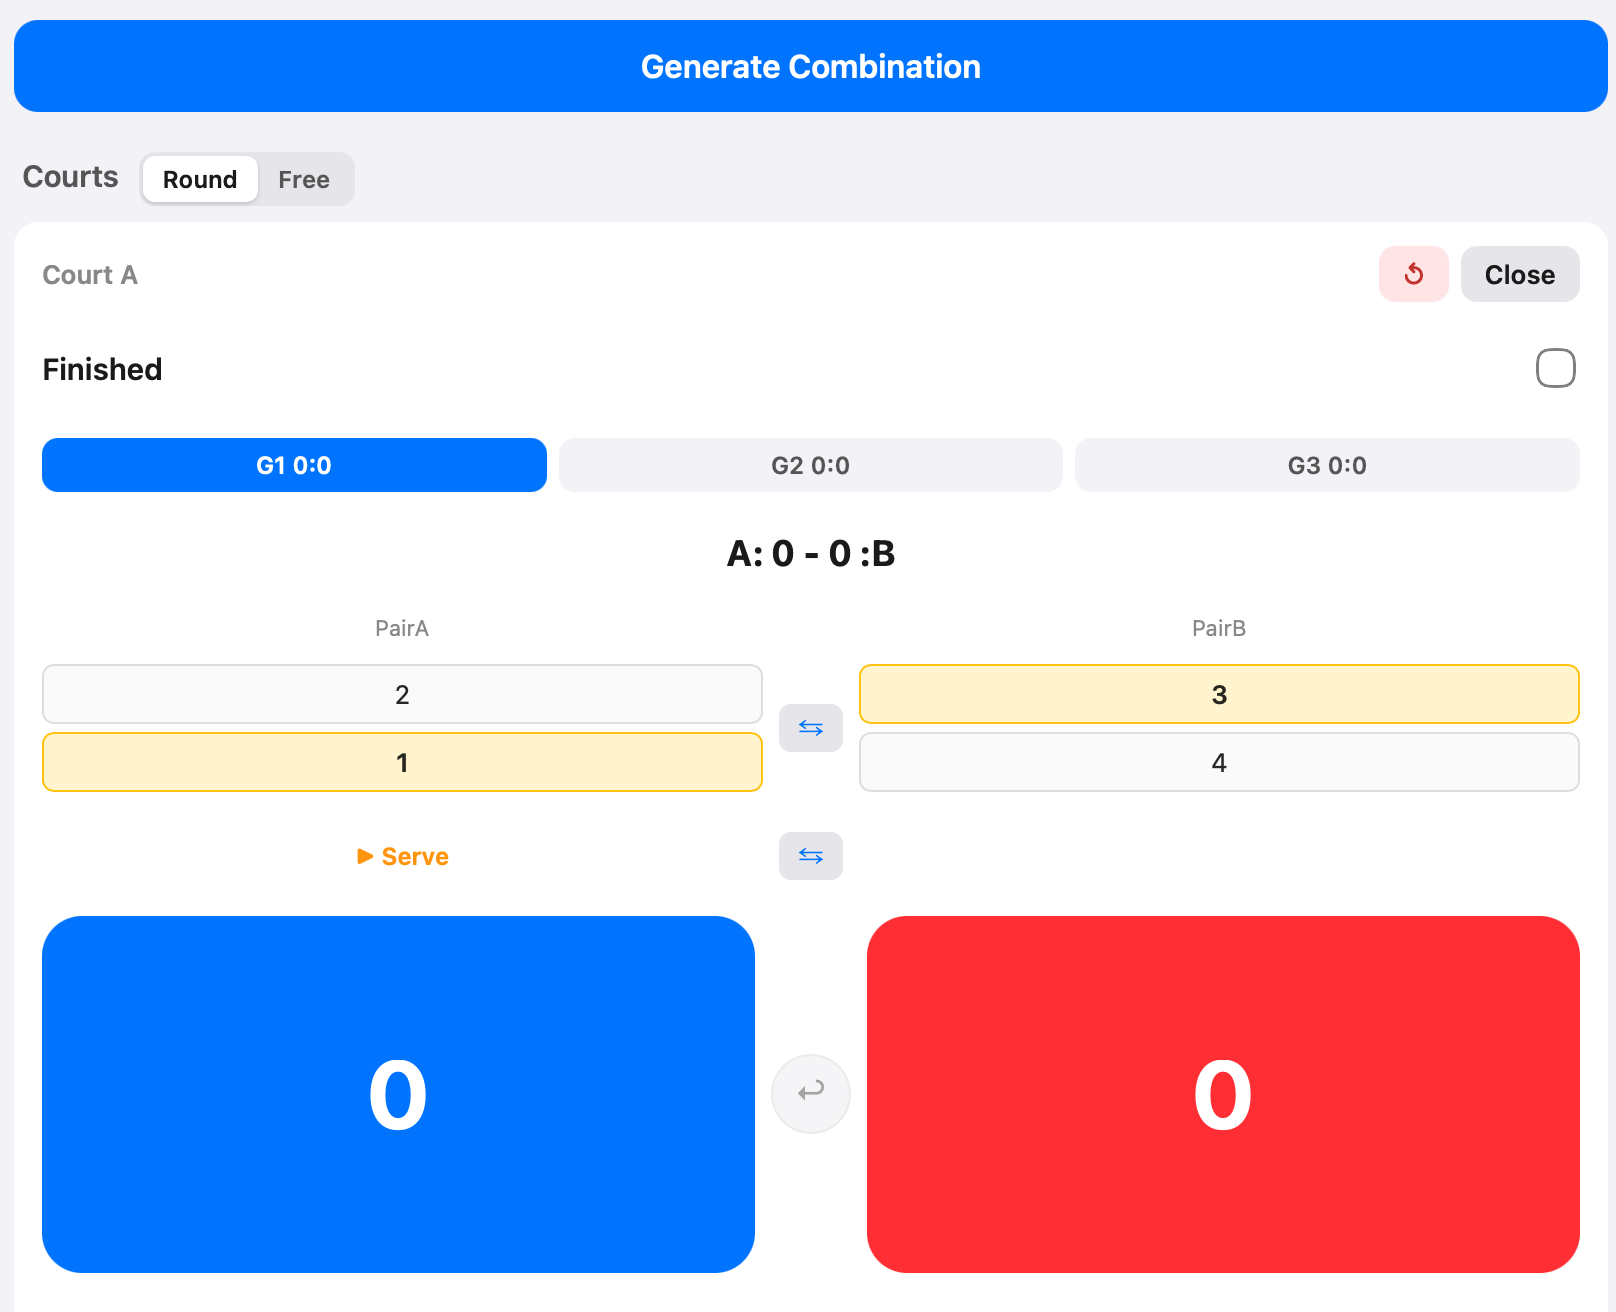
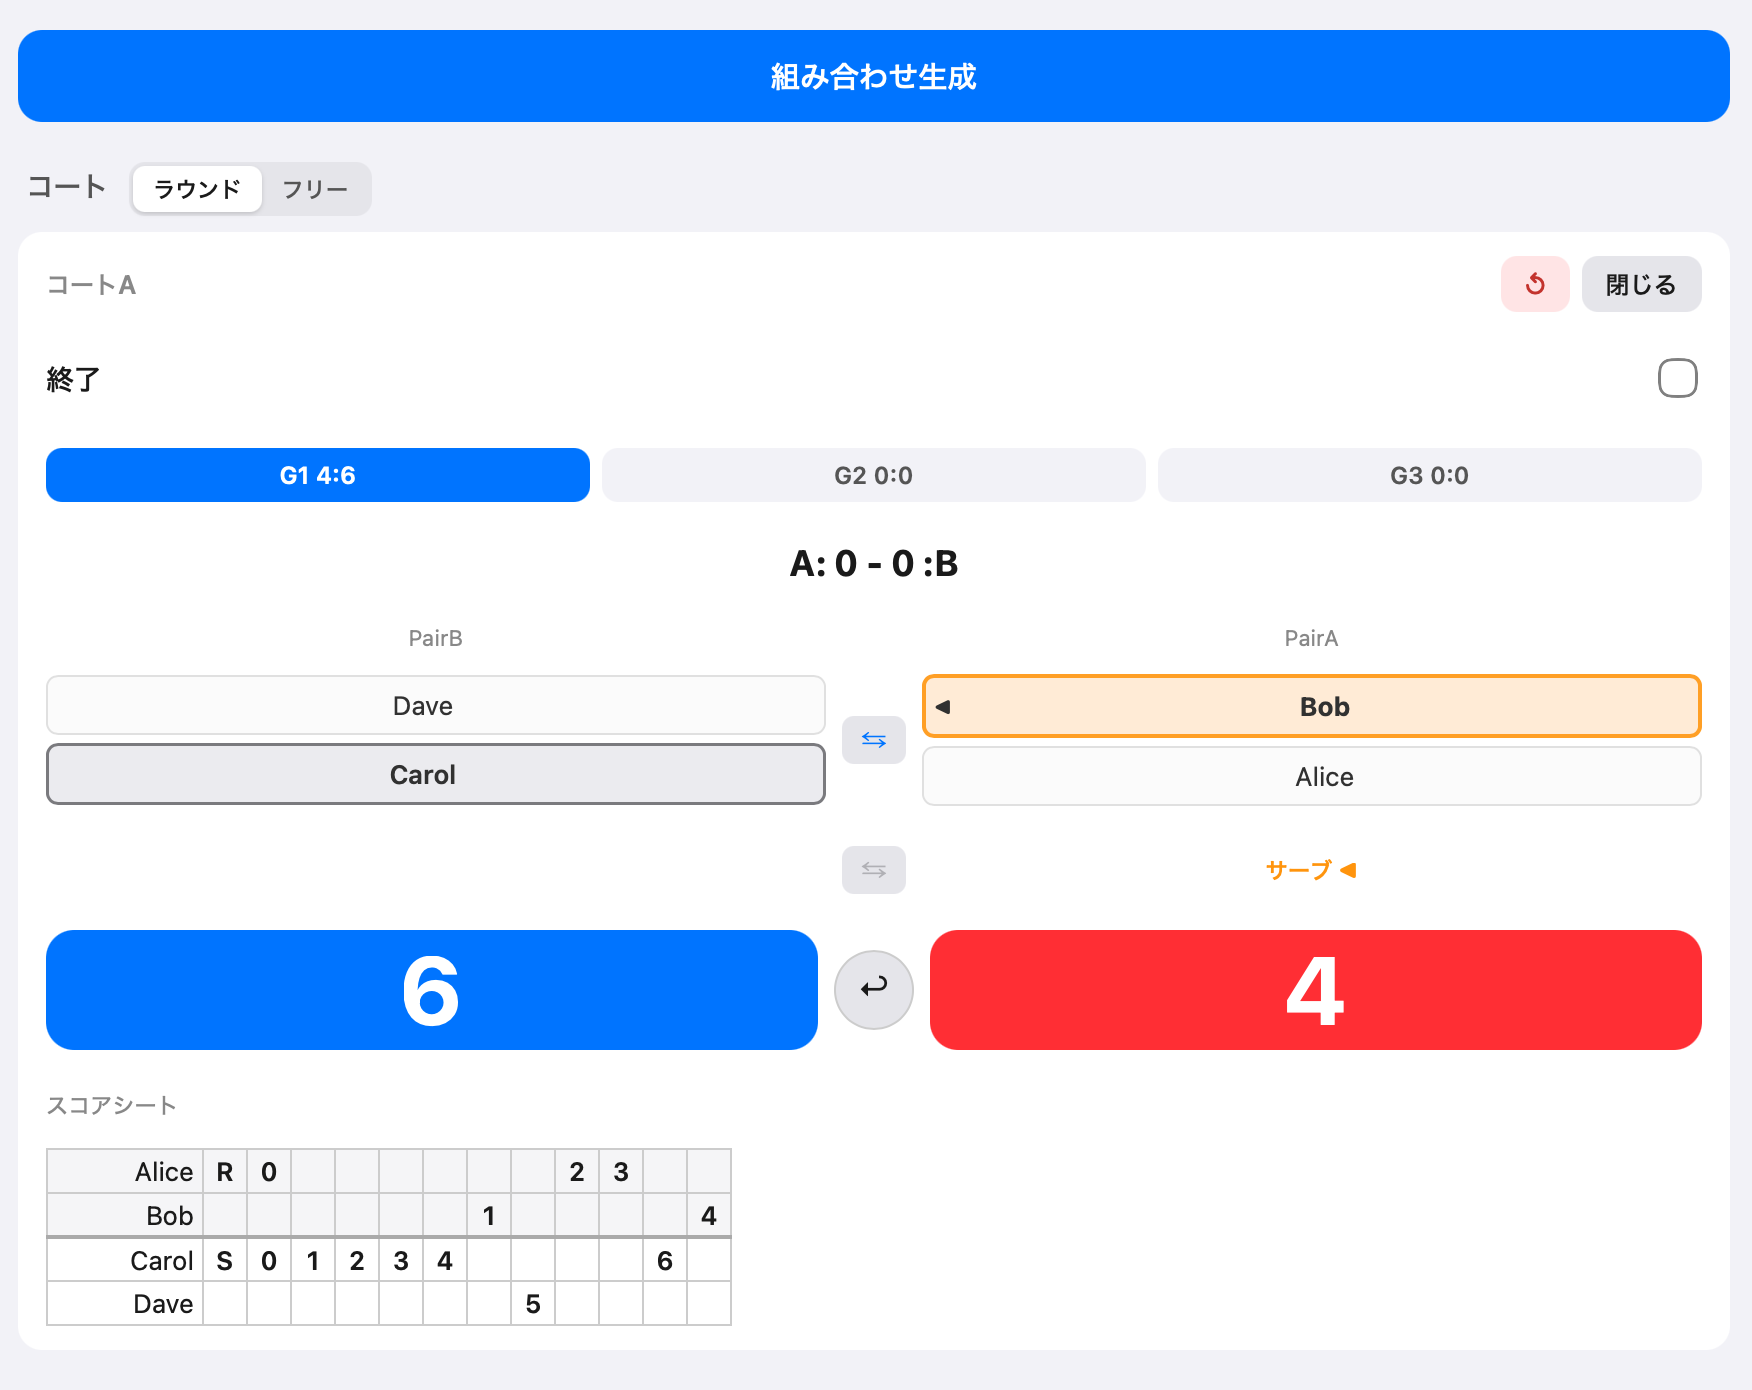
PairGen 1.28.0: スコアシート表示と結果メールの変更を反映
PairGen本体 doc/ の更新を反映。

- game-tab.html: スコアシートの節を追加、サーブ権を持つプレイヤーの表示
  （青色→オレンジ＋三角）とエンドチェンジの記述を現在の表示に修正、
  「結果をメールする」の本文構成（HTML・結果サマリー・スコアシート）を追記
- home.html / index.html / update-history.html: v1.28.0 の更新内容
- images: スコア入力画面・Webページ・Webのスコア入力画面のキャプチャを差し替え

Claude-Session: https://claude.ai/code/session_01JykdL7Hn42X6X7c72jgQig

diff --git a/game-tab.html b/game-tab.html
@@ -115,11 +115,20 @@
 
 <h3 id="input-score">得点を入力する</h3>
 <p>画面下部の青（PairA）・赤（PairB）の大きなボタンに、それぞれの現在の得点が数字で表示されています。このボタンをタップすると、そのペアに1点が加算されます。ボタンは画面左右の位置に固定されており、後述のエンドチェンジでペアが入れ替わると、表示される数字（担当するペア）もそれに合わせて切り替わります。</p>
-<p>得点に合わせてサーブ権が自動で切り替わり、サーブ権を持つプレイヤーが青色で表示されます。ボタンの真上には、サーブ権を持つ側に「Serve」の表示が出ます。</p>
+<p>得点に合わせてサーブ権が自動で切り替わります。いまサーブを打つプレイヤーはオレンジ色で強調され、名前の隣に相手コート側を向いた三角（▶ ／ ◀）が付きます。レシーブする側のプレイヤーはグレーの枠で示されます。ボタンの真上には、サーブ権を持つ側に「Serve」の表示が出ます。</p>
 <div class="tip">💡 得点の上限は <a href="#game-point">Game Point</a> の設定によって変わります（デフォルトの Game Point 21 の場合、上限は30点）。</div>
 
 <h3 id="undo-score">得点を取り消す</h3>
 <p><code>↩</code>（取り消し）ボタンで直前の得点を1点ずつ取り消せます。</p>
+
+<h3 id="score-sheet">スコアシートを見る</h3>
+<p>得点ボタンの下には、バドミントンの公式スコアシートと同じ書き方で試合の経過が記録されます。行は上から <strong>PairA の2人・PairB の2人</strong>で固定されており（エンドチェンジをしても入れ替わりません）、1列が1点です。</p>
+<ul>
+  <li>ゲーム開始時に、最初にサーブを打つ人の行に <code>S</code>、レシーブする人の行に <code>R</code> が入り、続けて両方の行に <code>0</code> が入ります</li>
+  <li>1点入るごとに列が1つ増え、<strong>得点したペアの、そのポイントの後にサーブを打つ人</strong>の行に、その時点の得点が記入されます</li>
+  <li>オレンジの縦線はインターバルの位置です（<a href="#game-point">Game Point</a> の半分＋1点。21点なら11点。ファイナルゲームではここでチェンジコートします）</li>
+</ul>
+<p>列は右へ伸びていき、常に最新の列が見えるよう自動でスクロールします。それまでの経過は横スクロールで確認できます。</p>
 
 <h3 id="switch-game">ゲームを切り替える</h3>
 <p>画面上部のセグメントピッカー（<code>G1 / G2 / G3</code>）で第1ゲーム・第2ゲーム・第3ゲームを切り替えます。ここに表示されるスコアも <strong>PairA:PairB</strong> の順で固定表示されます。</p>
@@ -146,7 +155,7 @@
 <div class="tip">💡 次のゲームが既に開始されている場合（得点が入っている場合）は上書きされません。</div>
 
 <h3 id="end-change">エンドチェンジ</h3>
-<p>プレイヤー表示の <strong>PairA</strong> / <strong>PairB</strong> の間にある <code>⇆</code> ボタン（旧 <code>End</code> ボタン）をタップすると、左右のペアが入れ替わります（エンドチェンジ）。<strong>PairA</strong> / <strong>PairB</strong> のラベルや得点ボタンの表示も、実際にどちらの位置にいるかに合わせて自動的に入れ替わります。スコア履歴のドットも自動で反転します。</p>
+<p>プレイヤー表示の <strong>PairA</strong> / <strong>PairB</strong> の間にある <code>⇆</code> ボタン（旧 <code>End</code> ボタン）をタップすると、左右のペアが入れ替わります（エンドチェンジ）。<strong>PairA</strong> / <strong>PairB</strong> のラベルや得点ボタンの表示も、実際にどちらの位置にいるかに合わせて自動的に入れ替わります。なお後述の<a href="#score-sheet">スコアシート</a>は行が PairA・PairB で固定されているため、エンドチェンジをしても並びは変わりません。</p>
 
 <h3 id="serve">サーブ権を変更する</h3>
 <p>得点ボタンの間・「Serve」表示と同じ行にある <code>⇆</code> ボタン（旧 <code>Serve</code> ボタン）で、ゲーム開始前（まだ得点が入っていない状態）に限りサービス権チームを入れ替えられます。また、プレイヤー名をタップすると、同ペア内でサーバーとレシーバーを入れ替えられます。</p>
@@ -181,9 +190,15 @@
 <p>Match タブ左上の「⋯」→ <strong>Mail Results</strong>（結果をメールする）をタップすると、メール作成画面が開き、これまでの組み合わせとスコアがあらかじめ本文に入力された状態で送信できます。</p>
 <ul>
   <li>件名は「PairGen 年/月/日」の形式で自動入力されます</li>
-  <li>本文には参加者一覧と、ラウンドごとのコート組み合わせ・スコア（記録済みの場合）が含まれます</li>
+  <li>本文は HTML 形式で、上から<strong>参加者一覧</strong>・<strong>結果サマリー</strong>・<strong>スコアシート</strong>の順に並びます</li>
 </ul>
-<div class="tip">💡 この端末に Mail アプリのアカウントが設定されていない場合は送信できません。あらかじめ「設定」アプリでメールアカウントを追加してください。</div>
+<p><strong>結果サマリー</strong>には、ラウンド（M1・M2…）ごとに各コートの組み合わせと勝ちゲーム数が入ります。</p>
+<ul>
+  <li><code>A(sAlice, Bob) 2 - 1 B(rCarol, Dave)</code> のように表示されます。数字は勝ちゲーム数で、常に <strong>PairA - PairB</strong> の順です（まだ決着していない試合や引き分けも <code>0 - 0</code> / <code>1 - 1</code> と表示されます）</li>
+  <li>名前の前の <code>s</code> は第1ゲームの最初のサーバー、<code>r</code> は最初のレシーバーを表します</li>
+</ul>
+<p><strong>スコアシート</strong>には、終了したゲームが<a href="#score-sheet">スコア入力画面と同じ書き方</a>の表で入ります。見出しは <code>M1 コートA G1 (21:18)</code> の形式で、結果サマリーと対応します。勝ちゲーム数が <code>0 - 0</code> の試合（1ゲームも終了していない試合）は省略されます。</p>
+<div class="tip">💡 この端末に Mail アプリのアカウントが設定されていない場合は送信できません。あらかじめ「設定」アプリでメールアカウントを追加してください。なお、その際に表示される「結果をコピー」では、同じ内容が等幅フォント向けのテキスト形式でクリップボードにコピーされます。</div>
 
 <h3 id="server">サーバー機能（試験的）</h3>
 <p>PairGen を入れた端末（マスター）でサーバーを起動すると、同じ Wi-Fi に接続した他の携帯・タブレットの Web ブラウザから、現在の組み合わせやプレイヤー一覧を見たり、一部の操作を行ったりできます。大会運営スタッフなど、複数人でコート状況を共有したい場合に便利です。普段のゲーム練などでもマスターの端末以外の複数端末から OS に関係なく現在の状況や進行を操作することが可能です。またゲーム練の途中からフリーモードに切り替えてコートごとにレベルを割り振って個別に進行を操作することも可能です。</p>
@@ -203,7 +218,7 @@
 <ul>
   <li>現在の組み合わせ（ラウンド／フリー両モード対応）とプレイヤー一覧の確認</li>
   <li>各コートの表示にレベルバッジを表示</li>
-  <li><strong>スコア入力</strong> — コートの組み合わせをタップするとスコア入力画面が開きます。iPhone版と同じ構成（PairA/PairBラベル、勝ちゲーム数の固定表示、大きな正方形の得点ボタン）で、タップの都度サーバーへ即時反映されます。プレイヤー名タップでのサーバー/レシーバー交代（得点が入る前のみ）、undo、エンド交替・サーブ交代、セット（ゲーム）の終了設定、スコアのリセットに対応</li>
+  <li><strong>スコア入力</strong> — コートの組み合わせをタップするとスコア入力画面が開きます。iPhone版と同じ構成（PairA/PairBラベル、勝ちゲーム数の固定表示、大きな得点ボタン、<a href="#score-sheet">スコアシート</a>）で、タップの都度サーバーへ即時反映されます。プレイヤー名タップでのサーバー/レシーバー交代（得点が入る前のみ）、undo、エンド交替・サーブ交代、セット（ゲーム）の終了設定、スコアのリセットに対応</li>
   <li><strong>組み合わせ生成</strong> — 次のラウンドの組み合わせを生成します</li>
   <li><strong>コートの終了／再開</strong>（フリーモード時）— コートをタップして切り替えます</li>
   <li><strong>プレイヤーの出場／休憩の切り替え</strong></li>

diff --git a/home.html b/home.html
@@ -28,7 +28,7 @@
 <body>
 
 <h1>くみあぷ（PairGen）</h1>
-<p><span class="badge">v1.27.0</span></p>
+<p><span class="badge">v1.28.0</span></p>
 <div class="note">⚠ This help is available in Japanese only. Please use your browser's auto-translate feature.</div>
 <p>PairGen はバドミントンなどのダブルス競技向けに、組み合わせを自動生成する iOS アプリです（Android 版も公開中）。参加人数とコート数を設定するだけで、重複を最小限に抑えた組み合わせをすぐに生成できます。</p>
 
@@ -117,10 +117,14 @@
   <li>ヘルプページは日本語で提供しています。ブラウザの自動翻訳機能をご利用ください。</li>
 </ul>
 
-<h2>バージョン 1.27.0 更新内容</h2>
+<h2>バージョン 1.28.0 更新内容</h2>
 <ul>
-  <li>試合タブに画面を上下に分けて表示するモードを追加しました（iPhone 専用）。上に最新ラウンドの組み合わせ、下にプレイヤー一覧が並ぶので、試合中にレベルや出場・休憩を変えるのにプレイヤータブへ移動する手間がなくなります。上部のボタンでいつでも従来の表示に戻せます（下側の一覧からプレイヤー編集画面は開けません）</li>
-  <li>コートタブのコート数表示が日本語などの環境でも英語のままだった問題を修正しました</li>
+  <li>v1.26.0 以降、組み合わせの作り方を大幅に改善しています。ペアや対戦相手の偏りが減り、出場機会もより均等になりました</li>
+  <li>「結果をメールする」を選んでも何も起きないことがある問題を修正しました。標準の「メール」アプリにメールアカウントを設定していない端末で起きていました</li>
+  <li>メールで送れない場合は、その理由をお知らせしたうえで結果を丸ごとコピーできるようにしました。Gmail など標準以外のメールアプリに貼り付けて送れます</li>
+  <li>スコア入力画面の得点履歴を、バドミントンの公式スコアシートと同じ形式にしました。いまサーブを打つ人はオレンジ色で強調されます</li>
+  <li>サーバー機能（Web ブラウザ）の画面にも同じ表示を反映しました</li>
+  <li>「結果をメールする」の本文を、組み合わせと勝ちゲーム数のサマリー＋スコアシートの表に見直しました</li>
 </ul>
 
 <h2>フィードバック</h2>

diff --git a/index.html b/index.html
@@ -28,7 +28,7 @@
 <body>
 
 <h1>くみあぷ（PairGen）</h1>
-<p><span class="badge">v1.27.0</span></p>
+<p><span class="badge">v1.28.0</span></p>
 <div class="note">⚠ This help is available in Japanese only. Please use your browser's auto-translate feature.</div>
 <p>PairGen はバドミントンなどのダブルス競技向けに、組み合わせを自動生成する iOS アプリです（Android 版も公開中）。参加人数とコート数を設定するだけで、重複を最小限に抑えた組み合わせをすぐに生成できます。</p>
 
@@ -117,10 +117,14 @@
   <li>ヘルプページは日本語で提供しています。ブラウザの自動翻訳機能をご利用ください。</li>
 </ul>
 
-<h2>バージョン 1.27.0 更新内容</h2>
+<h2>バージョン 1.28.0 更新内容</h2>
 <ul>
-  <li>試合タブに画面を上下に分けて表示するモードを追加しました（iPhone 専用）。上に最新ラウンドの組み合わせ、下にプレイヤー一覧が並ぶので、試合中にレベルや出場・休憩を変えるのにプレイヤータブへ移動する手間がなくなります。上部のボタンでいつでも従来の表示に戻せます（下側の一覧からプレイヤー編集画面は開けません）</li>
-  <li>コートタブのコート数表示が日本語などの環境でも英語のままだった問題を修正しました</li>
+  <li>v1.26.0 以降、組み合わせの作り方を大幅に改善しています。ペアや対戦相手の偏りが減り、出場機会もより均等になりました</li>
+  <li>「結果をメールする」を選んでも何も起きないことがある問題を修正しました。標準の「メール」アプリにメールアカウントを設定していない端末で起きていました</li>
+  <li>メールで送れない場合は、その理由をお知らせしたうえで結果を丸ごとコピーできるようにしました。Gmail など標準以外のメールアプリに貼り付けて送れます</li>
+  <li>スコア入力画面の得点履歴を、バドミントンの公式スコアシートと同じ形式にしました。いまサーブを打つ人はオレンジ色で強調されます</li>
+  <li>サーバー機能（Web ブラウザ）の画面にも同じ表示を反映しました</li>
+  <li>「結果をメールする」の本文を、組み合わせと勝ちゲーム数のサマリー＋スコアシートの表に見直しました</li>
 </ul>
 
 <h2>フィードバック</h2>

diff --git a/update-history.html b/update-history.html
@@ -16,6 +16,15 @@
 <p class="back-link"><a href="home.html">← ホームに戻る</a></p>
 <h1>更新履歴</h1>
 
+<h2>v1.28.0</h2>
+<ul>
+  <li>「結果をメールする」を選んでも何も起きないことがある問題を修正しました。標準の「メール」アプリにメールアカウントを設定していない端末で起きていました</li>
+  <li>メールで送れない場合は、その理由をお知らせしたうえで結果を丸ごとコピーできるようにしました。Gmail など標準以外のメールアプリに貼り付けて送れます</li>
+  <li>スコア入力画面の得点履歴を、バドミントンの公式スコアシートと同じ形式にしました。いまサーブを打つ人はオレンジ色で強調されます</li>
+  <li>サーバー機能（Web ブラウザ）の画面にも同じ表示を反映しました</li>
+  <li>「結果をメールする」の本文を、組み合わせと勝ちゲーム数のサマリー＋スコアシートの表に見直しました</li>
+</ul>
+
 <h2>v1.27.0</h2>
 <ul>
   <li>試合タブに画面を上下に分けて表示するモードを追加しました（iPhone 専用）。上に最新ラウンドの組み合わせ、下にプレイヤー一覧が並ぶので、試合中にレベルや出場・休憩を変えるのにプレイヤータブへ移動する手間がなくなります。上部のボタンでいつでも従来の表示に戻せます（下側の一覧からプレイヤー編集画面は開けません）</li>
